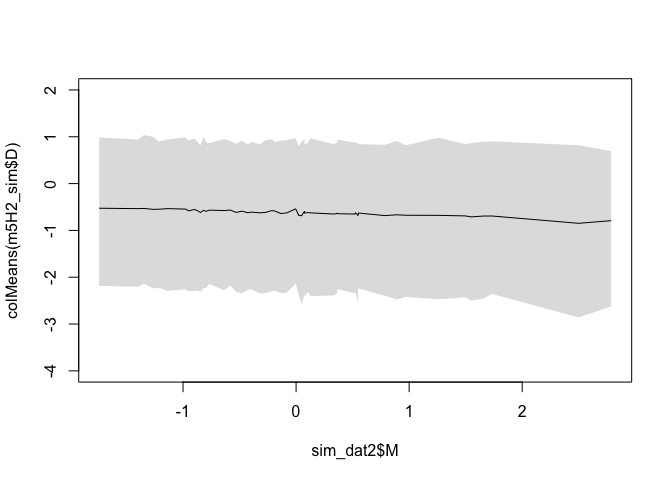
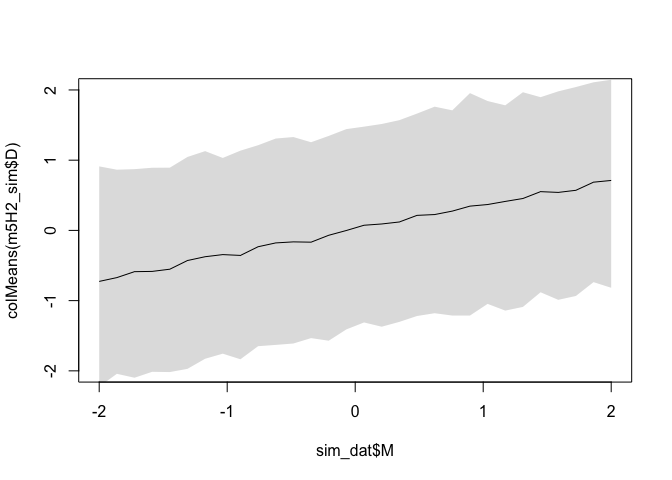
complete Ch5 excersises

diff --git a/Chapter_5_Ex.md b/Chapter_5_Ex.md
@@ -188,35 +188,49 @@ m5H2 <- quap(
     a ~ dnorm(0, 0.2),
     bM ~ dnorm(0, 0.5),
     bA ~ dnorm(0, 0.5),
-    sigma ~ dexp(1)
+    sigma ~ dexp(1),
+    ## M -> A
+    A ~ dnorm(muA, sigmaA),
+    muA <- aMA + bMA * M,
+    aMA ~ dnorm(0, 0.2),
+    bMA ~ dnorm(0, 0.5),
+    sigmaA ~ dexp(1)
   ), data = d
 )
 
 precis(m5H2)
 ```
 
-    ##                mean        sd       5.5%      94.5%
-    ## a      0.0000193783 0.0970759 -0.1551267  0.1551654
-    ## bM    -0.0652848141 0.1507738 -0.3062504  0.1756808
-    ## bA    -0.6134437571 0.1509843 -0.8547458 -0.3721418
-    ## sigma  0.7851165922 0.0778431  0.6607083  0.9095249
+    ##                 mean         sd       5.5%      94.5%
+    ## a       2.934403e-05 0.09707742 -0.1551191  0.1551778
+    ## bM     -6.535423e-02 0.15077586 -0.3063232  0.1756147
+    ## bA     -6.136268e-01 0.15098442 -0.8549290 -0.3723245
+    ## sigma   7.851327e-01 0.07784688  0.6607183  0.9095470
+    ## aMA     7.342282e-06 0.08684829 -0.1387930  0.1388077
+    ## bMA    -6.947199e-01 0.09572770 -0.8477113 -0.5417286
+    ## sigmaA  6.817413e-01 0.06758117  0.5737335  0.7897490
 
 ``` r
 set.seed(2971)
 
 sim_dat <- tibble(M = seq(-2, 2, length.out = 30))
 
-sim_dat2 <- tibble(M = sort(standardize(WaffleDivorce$Marriage/2)))
-
-m5H2_sim <- sim(m5H2, data = sim_dat2, vars = c("A", "D"))
+m5H2_sim <- sim(m5H2, data = sim_dat, vars = c("A", "D"))
 ```
 
 ``` r
-plot(sim_dat2$M, colMeans(m5H2_sim$D), ylim = c(-4, 2), type = "l")
-shade(apply(m5H2_sim$D, 2, PI), sim_dat2$M)
+plot(sim_dat$M, colMeans(m5H2_sim$D), ylim = c(-2, 2), type = "l")
+shade(apply(m5H2_sim$D, 2, PI), sim_dat$M)
 ```
 
 ![](Chapter_5_Ex_files/figure-gfm/unnamed-chunk-6-1.png)<!-- -->
+
+``` r
+plot(sim_dat$M, colMeans(m5H2_sim$A), ylim = c(-2, 2), type = "l")
+shade(apply(m5H2_sim$A, 2, PI), sim_dat$M)
+```
+
+![](Chapter_5_Ex_files/figure-gfm/unnamed-chunk-7-1.png)<!-- -->
 
 Document the information about the analysis session
 
@@ -257,10 +271,10 @@ sessionInfo()
     ## [29] magrittr_2.0.1     crayon_1.4.1       readxl_1.3.1       evaluate_0.14     
     ## [33] ps_1.6.0           fs_1.5.0           fansi_0.5.0        MASS_7.3-54       
     ## [37] xml2_1.3.2         pkgbuild_1.2.0     tools_4.1.1        loo_2.4.1         
-    ## [41] prettyunits_1.1.1  hms_1.1.0          lifecycle_1.0.0    matrixStats_0.60.1
+    ## [41] prettyunits_1.1.1  hms_1.1.0          lifecycle_1.0.0    matrixStats_0.61.0
     ## [45] V8_3.4.2           munsell_0.5.0      reprex_2.0.1       callr_3.7.0       
     ## [49] compiler_4.1.1     rlang_0.4.11       grid_4.1.1         rstudioapi_0.13   
-    ## [53] rmarkdown_2.10     boot_1.3-28        gtable_0.3.0       codetools_0.2-18  
+    ## [53] rmarkdown_2.11     boot_1.3-28        gtable_0.3.0       codetools_0.2-18  
     ## [57] inline_0.3.19      DBI_1.1.1          curl_4.3.2         R6_2.5.1          
     ## [61] gridExtra_2.3      lubridate_1.7.10   knitr_1.34         fastmap_1.1.0     
     ## [65] utf8_1.2.2         shape_1.4.6        stringi_1.7.4      Rcpp_1.0.7        
